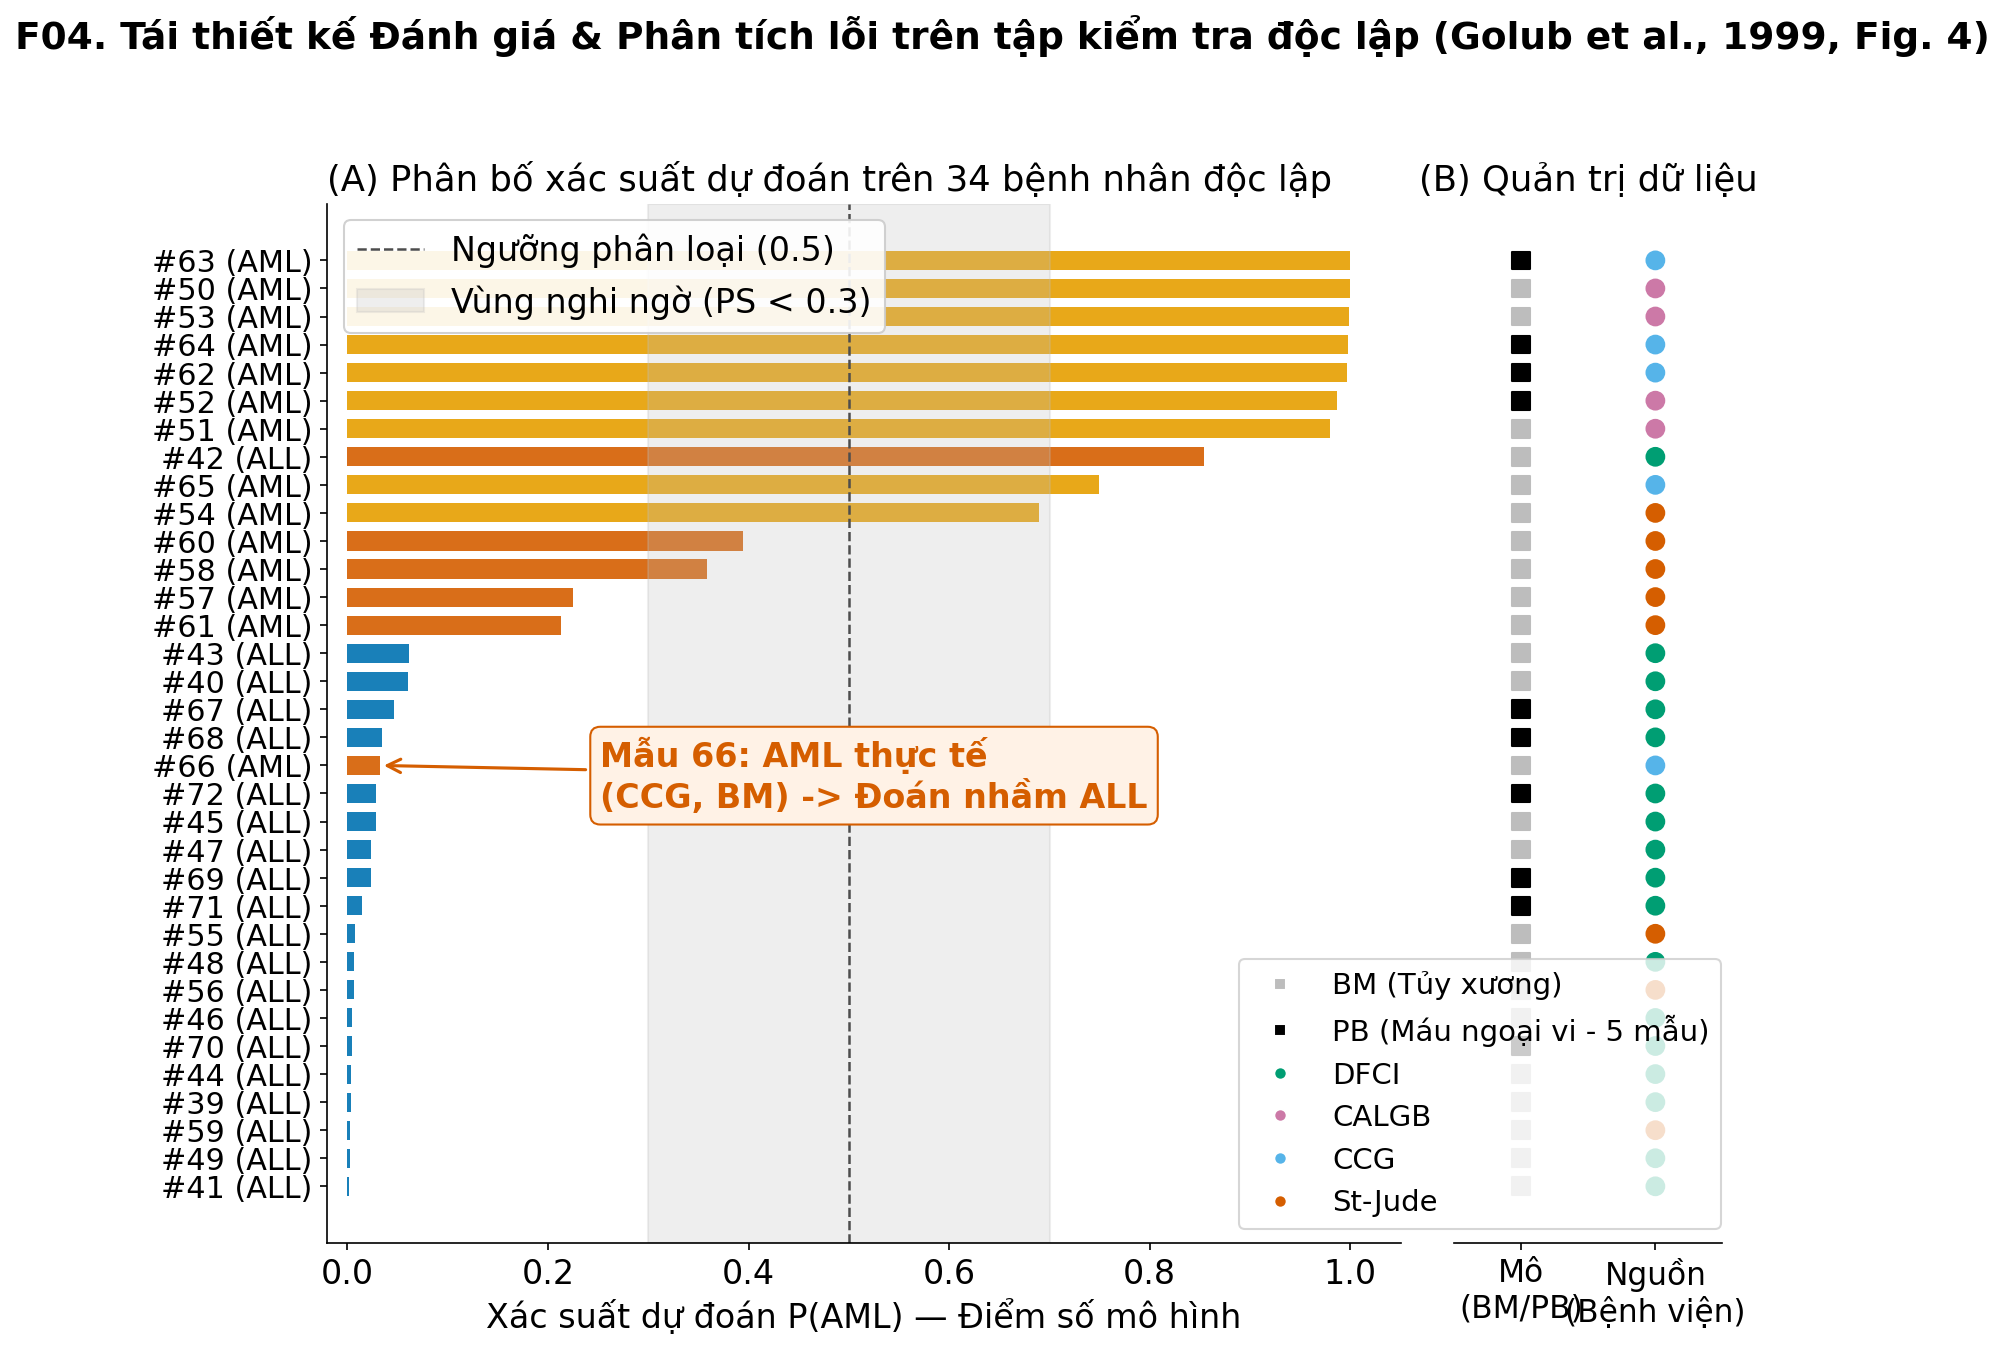
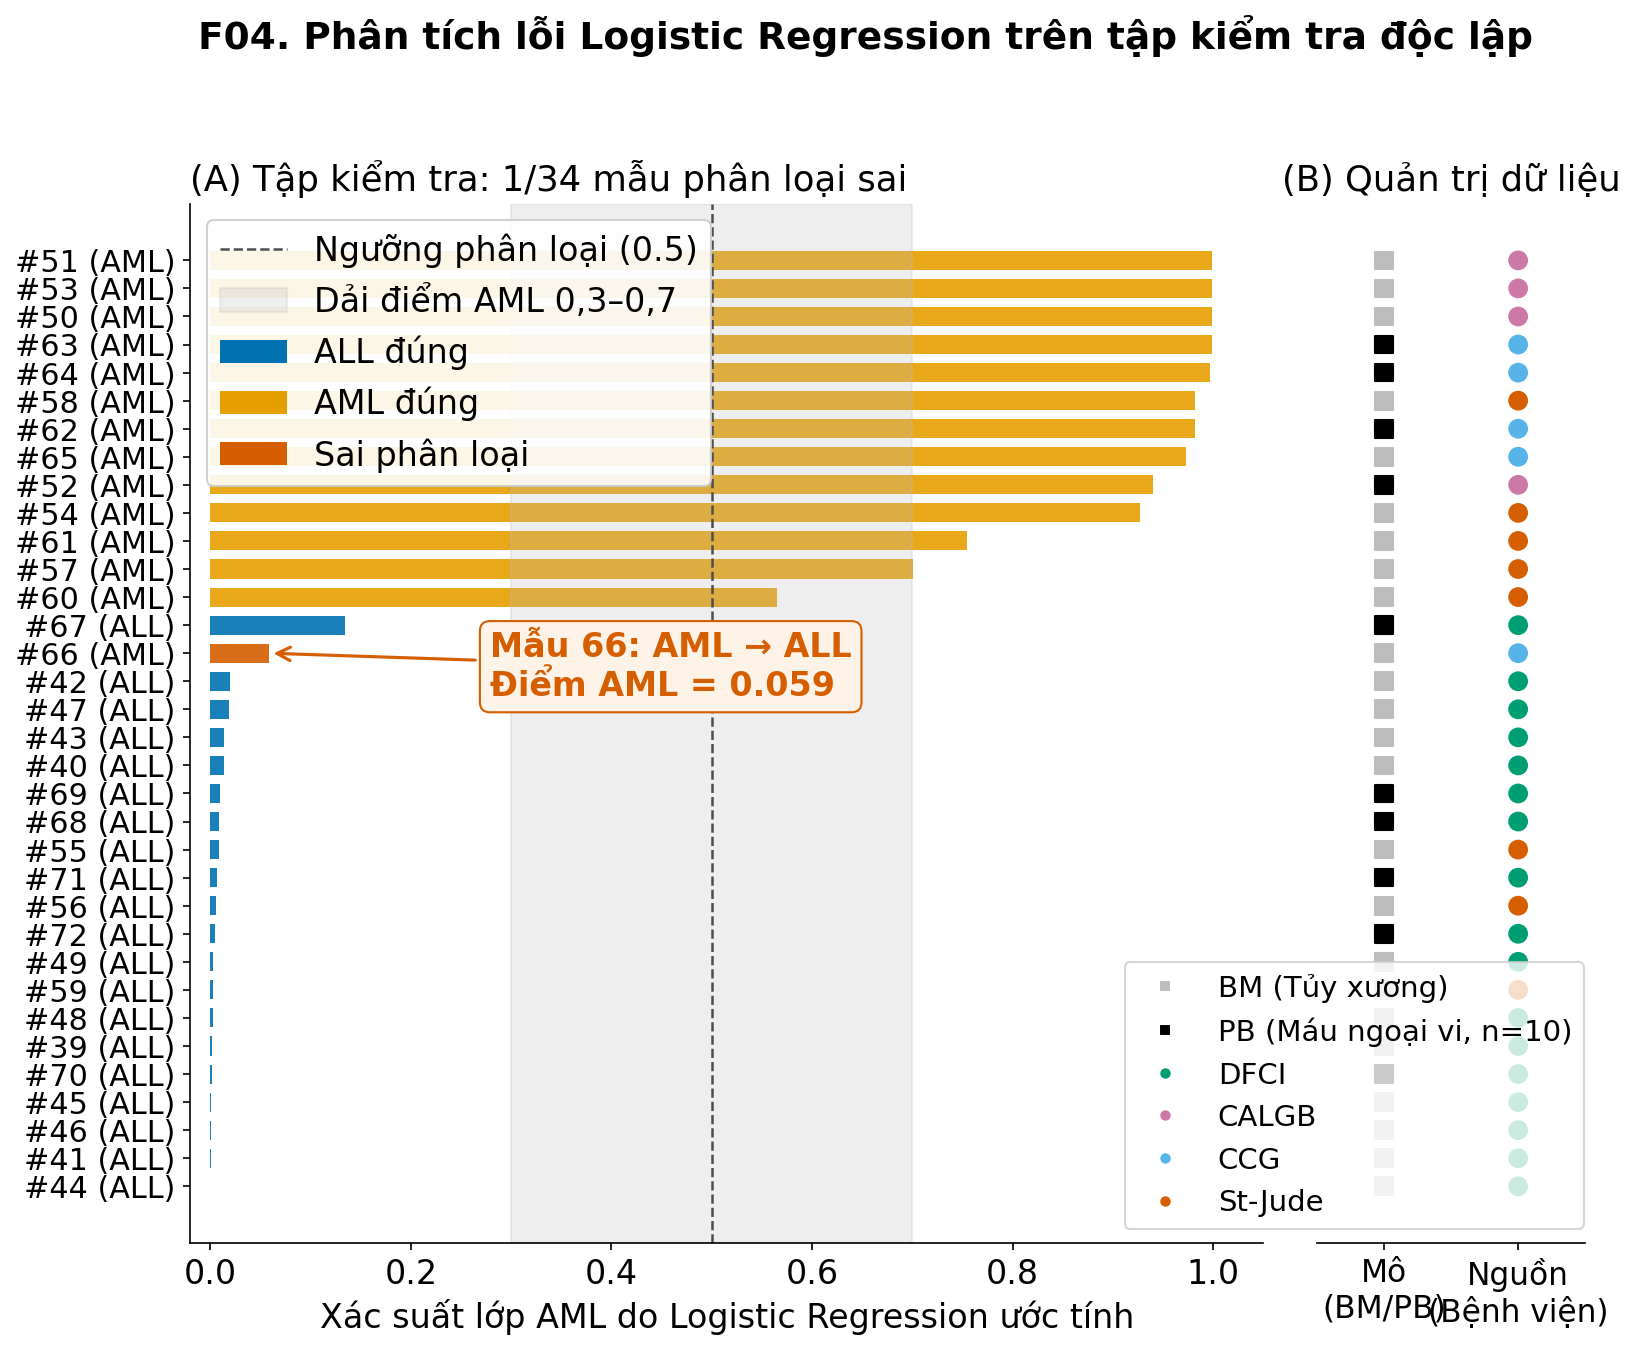
fix(tv5): dùng dữ liệu log10 và cập nhật hình phân tích lỗi F04

diff --git a/src/viz_redesign.py b/src/viz_redesign.py
@@ -3,7 +3,7 @@
 Tái thiết kế các hình kinh điển của bài báo Golub et al. (1999) theo chuẩn trực quan hóa hiện đại:
     - Fig 2: Phân cụm không giám sát bằng Self-Organizing Maps (SOM 1x2 và 2x2), đối chiếu cấu trúc lớp và chiếu không gian biểu hiện gen.
     - Fig 3A: (Dành riêng cho đợt tích hợp TV1) Phân bố Prediction Strength (PS) của mô hình Weighted Voting.
-    - Fig 4: Phân tích dự đoán trên tập kiểm tra độc lập (34 mẫu), làm nổi bật mẫu biên (mẫu 66), 5 mẫu máu ngoại vi (PB) và các yếu tố gây nhiễu từ nguồn thu thập mẫu.
+    - F04 (hình bổ sung của nhóm): Phân tích lỗi Logistic Regression trên tập kiểm tra độc lập theo loại mô và nguồn thu thập.
 
 Tuân thủ nghiêm ngặt Style Guide (docs/style_guide.md) và ADR-014:
     - Bảng màu Okabe-Ito: ALL (#0072B2), AML (#E69F00), an toàn cho người mù màu.
@@ -21,7 +21,6 @@ Chạy trực tiếp:
 """
 from __future__ import annotations
 
-import warnings
 from pathlib import Path
 
 import matplotlib.pyplot as plt
@@ -209,7 +208,7 @@ def plot_fig2_som_redesign(
 
 
 # --------------------------------------------------------------------------------------
-# 3. Tái thiết kế Fig 4: Error Analysis on Independent Test Set
+# 3. F04: Phân tích lỗi Logistic Regression trên tập kiểm tra độc lập
 # --------------------------------------------------------------------------------------
 
 def plot_fig4_error_analysis(
@@ -217,7 +216,7 @@ def plot_fig4_error_analysis(
     samples: pd.DataFrame,
     mode: str = "report"
 ) -> plt.Figure:
-    """Tái thiết kế Hình 4 của bài báo Golub 1999: Phân tích dự đoán trên tập kiểm tra độc lập (34 mẫu).
+    """Trực quan hóa kết quả Logistic Regression trên tập kiểm tra độc lập.
 
     Hiển thị:
         (A) Biểu đồ ngang xác suất dự đoán P(AML) của từng bệnh nhân, làm nổi bật ca phân loại sai (Mẫu 66).
@@ -230,6 +229,8 @@ def plot_fig4_error_analysis(
         # Sắp xếp bệnh nhân theo xác suất P(AML) tăng dần
         merged = merged.sort_values(by=["score", "y_true"], ascending=[True, True])
         n_samples = len(merged)
+        wrong = merged["y_pred"].ne(merged["y_true"])
+        n_pb = merged["tissue"].eq("PB").sum()
 
         # Chiều cao linh hoạt để đọc rõ mã 34 bệnh nhân
         h = figsize(mode, height_ratio=0.75)[1]
@@ -256,15 +257,15 @@ def plot_fig4_error_analysis(
         scores = merged["score"].values
         ax_main.barh(y_positions, scores, color=bar_colors, height=0.68, alpha=0.9, edgecolor="none")
 
-        # Ngưỡng phân định lâm sàng
+        # Ngưỡng phân loại của mô hình
         ax_main.axvline(0.5, color=NEUTRAL, linestyle="--", linewidth=1.2, label="Ngưỡng phân loại (0.5)")
-        ax_main.axvspan(0.3, 0.7, color=NEUTRAL_LIGHT, alpha=0.25, label="Vùng nghi ngờ (PS < 0.3)")
+        ax_main.axvspan(0.3, 0.7, color=NEUTRAL_LIGHT, alpha=0.25, label="Dải điểm AML 0,3–0,7")
 
         # Ghi chú ca đặc biệt Mẫu 66
-        if 66 in merged.index:
+        if 66 in merged.index and wrong.loc[66]:
             m66_idx = np.where(merged.index == 66)[0][0]
             ax_main.annotate(
-                "Mẫu 66: AML thực tế\n(CCG, BM) -> Đoán nhầm ALL",
+                f"Mẫu 66: AML → ALL\nĐiểm AML = {merged.loc[66, 'score']:.3f}",
                 xy=(merged.loc[66, "score"], m66_idx),
                 xytext=(merged.loc[66, "score"] + 0.22, m66_idx - 1.5),
                 arrowprops=dict(arrowstyle="->", color="#D55E00", lw=1.5),
@@ -275,20 +276,22 @@ def plot_fig4_error_analysis(
         ax_main.set_yticks(y_positions)
         yticklabels = [f"#{idx} ({row['y_true']})" for idx, row in merged.iterrows()]
         ax_main.set_yticklabels(yticklabels, fontsize=style_rc(mode)["font.size"] - 1.5)
-        ax_main.set_xlabel("Xác suất dự đoán P(AML) — Điểm số mô hình")
+        ax_main.set_xlabel("Xác suất lớp AML do Logistic Regression ước tính")
         ax_main.set_xlim(-0.02, 1.05)
-        ax_main.set_title("(A) Phân bố xác suất dự đoán trên 34 bệnh nhân độc lập", loc="left")
-        ax_main.legend(frameon=True, loc="upper left", facecolor="white", framealpha=0.9)
+        ax_main.set_title(f"(A) Tập kiểm tra: {wrong.sum()}/{n_samples} mẫu phân loại sai", loc="left")
+        ax_main.legend(
+            handles=[
+                *ax_main.get_legend_handles_labels()[0],
+                Patch(facecolor=CLASS_COLORS["ALL"], label="ALL đúng"),
+                Patch(facecolor=CLASS_COLORS["AML"], label="AML đúng"),
+                Patch(facecolor="#D55E00", label="Sai phân loại"),
+            ],
+            frameon=True, loc="upper left", facecolor="white", framealpha=0.9,
+        )
 
         # ---------------------------------------------------------
         # Bảng metadata: Mô (Tissue) và Nguồn (Source)
         # ---------------------------------------------------------
-        # Track 1: Tissue (BM = 0, PB = 1)
-        tissue_vals = np.array([0 if row["tissue"] == "BM" else 1 for _, row in merged.iterrows()])
-        # Track 2: Source (DFCI=0, CALGB=1, CCG=2, St-Jude=3)
-        src_map = {"DFCI": 0, "CALGB": 1, "CCG": 2, "St-Jude": 3}
-        source_vals = np.array([src_map[row["source"]] for _, row in merged.iterrows()])
-
         # Vẽ 2 cột nhiệt metadata
         ax_meta.scatter(np.zeros(n_samples), y_positions, c=[TISSUE_COLORS[r["tissue"]] for _, r in merged.iterrows()],
                         s=style_rc(mode)["lines.linewidth"] * 30, marker="s", label="Mô")
@@ -305,7 +308,7 @@ def plot_fig4_error_analysis(
         # Chú giải riêng cho metadata
         legend_elements = [
             Line2D([0], [0], marker="s", color="w", markerfacecolor=TISSUE_COLORS["BM"], label="BM (Tủy xương)"),
-            Line2D([0], [0], marker="s", color="w", markerfacecolor=TISSUE_COLORS["PB"], label="PB (Máu ngoại vi - 5 mẫu)"),
+            Line2D([0], [0], marker="s", color="w", markerfacecolor=TISSUE_COLORS["PB"], label=f"PB (Máu ngoại vi, n={n_pb})"),
             Line2D([0], [0], marker="o", color="w", markerfacecolor=SOURCE_COLORS["DFCI"], label="DFCI"),
             Line2D([0], [0], marker="o", color="w", markerfacecolor=SOURCE_COLORS["CALGB"], label="CALGB"),
             Line2D([0], [0], marker="o", color="w", markerfacecolor=SOURCE_COLORS["CCG"], label="CCG"),
@@ -314,7 +317,7 @@ def plot_fig4_error_analysis(
         ax_meta.legend(handles=legend_elements, loc="lower right", bbox_to_anchor=(1.05, 0.0),
                        fontsize=style_rc(mode)["font.size"] - 2, frameon=True, facecolor="white")
 
-        fig.suptitle("F04. Tái thiết kế Đánh giá & Phân tích lỗi trên tập kiểm tra độc lập (Golub et al., 1999, Fig. 4)",
+        fig.suptitle("F04. Phân tích lỗi Logistic Regression trên tập kiểm tra độc lập",
                      y=1.02, fontweight="bold")
         return fig
 
@@ -499,13 +502,10 @@ def generate_all_redesigned_figures() -> None:
     """Sinh toàn bộ hình F02, F03a và F04 ở cả hai phiên bản report và slide."""
     print("--- Bắt đầu sinh hình F02, F03a và F04 tái thiết kế ---")
     X_cu, samples = load_golub("curated")
-    X_cl, _ = load_golub("cleansed")
 
     # 1. Chạy đánh giá để lấy bảng dự đoán 34 mẫu kiểm tra cho Fig 4
     pipe = _baseline_pipeline(k=50)
-    with warnings.catch_warnings():
-        warnings.simplefilter("ignore")
-        res = evaluate(pipe, X_cl, samples["class"], scheme="original_split")
+    res = evaluate(pipe, X_cu, samples["class"], scheme="original_split")
     preds = res["predictions"]
 
     for mode in ("report", "slide"):

diff --git a/tests/test_viz_redesign.py b/tests/test_viz_redesign.py
@@ -102,6 +102,8 @@ def test_plot_fig4_error_analysis_returns_figure(mock_discovery_data, mock_predi
     for mode in ("report", "slide"):
         fig = plot_fig4_error_analysis(mock_predictions, samples, mode=mode)
         assert isinstance(fig, plt.Figure)
+        assert "1/8 mẫu phân loại sai" in fig.axes[0].get_title(loc="left")
+        assert "PB (Máu ngoại vi, n=4)" in [text.get_text() for text in fig.axes[1].get_legend().get_texts()]
         plt.close(fig)
 
 

diff --git a/docs/decisions.md b/docs/decisions.md
@@ -427,10 +427,10 @@ tái lập được và truy ngược về nguồn.
   2. **Fig 3A (Prediction Strength):**
      - Bảng A (LOOCV 38 mẫu): Trực quan hóa giá trị PS từ `results/metrics/golub_ps.csv` (TV1), vạch ngưỡng $PS = 0.30$, phủ dải cảnh báo "Uncertain" ($PS < 0.30$) thể chế hóa cơ chế *Human-in-the-loop*; 36/38 mẫu chắc chắn và đúng 100%, 2 mẫu rơi vào vùng không chắc chắn (#12, #35).
      - Bảng B (Tập kiểm tra 34 mẫu): 33/34 mẫu chắc chắn, 32 đúng; làm nổi bật mẫu 66 ($PS = 0.30004$ sát ranh giới do Tumor Purity thấp); toàn bộ 5 mẫu máu ngoại vi (PB) được phân loại đúng; định vị mẫu không chắc chắn (#67).
-  3. **Fig 4 (Independent Test Set & Error Analysis):**
-     - Bảng A: Biểu đồ ngang xác suất dự đoán P(AML) cho toàn bộ 34 bệnh nhân tập kiểm tra độc lập, phân màu theo kết quả phân loại (ALL đúng, AML đúng, Sai phân loại), vạch rõ ngưỡng quyết định 0.5 và vùng ranh giới/nghi ngờ ([0.3, 0.7]).
+  3. **F04 (hình bổ sung, phân tích lỗi Logistic Regression):**
+     - Bảng A: Xác suất lớp AML do Logistic Regression ước tính. Mô hình đọc dữ liệu curated log10, fit trên 38 mẫu train và dự đoán 34 mẫu test. Ngưỡng phân loại là 0,5 và dải 0,3–0,7 dùng làm tham chiếu trực quan.
      - Bảng B: Dải kiểm định Quản trị dữ liệu (Governance Tracks) gồm Loại mô (BM vs PB) và Nguồn bệnh viện (DFCI, CALGB, CCG, St-Jude).
-     - Điểm nhấn lâm sàng: Làm nổi bật mẫu 66 (mẫu AML duy nhất bị mô hình đoán nhầm thành ALL, khớp với độ tin cậy thấp PS = 0.11 trong bài báo gốc); khẳng định 5 mẫu máu ngoại vi (PB) vẫn được mô hình phân loại chính xác.
+     - Kết quả Logistic Regression: 33/34 mẫu đúng, gồm cả 10 mẫu máu ngoại vi (PB). Mẫu 66 (AML, CCG, BM) được dự đoán thành ALL.
   4. **Quy chuẩn đồ họa:** Đủ 2 phiên bản `report` (300 dpi, chữ >= 10 pt) và `slide` (150 dpi, chữ >= 16 pt) lưu tại `results/figures/report/` và `results/figures/slides/`. Bảng màu Okabe-Ito: ALL (`#0072B2`), AML (`#E69F00`).
 - **Kiểm thử:** Đã bổ sung `tests/test_viz_redesign.py` (6 test) kiểm tra việc sinh hình, kích thước, định dạng và tính hợp lệ cho cả 3 hình; toàn bộ test đạt `PASSED`.
 
